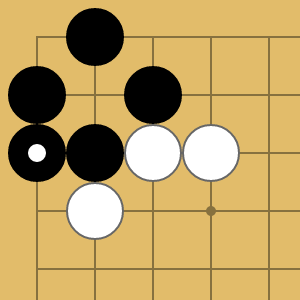
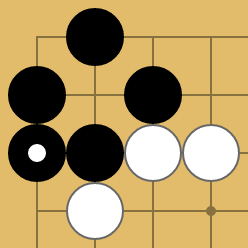
Simplify textured stone styling.
This is mainly driven by performance issues. Mobile devices seem to
struggle a lot with blurring, and for a large number of stones things
get really bad. So the box shadow is cut down. Colours are tweaked, too.

diff --git a/build/tenuki.min.css b/build/tenuki.min.css
@@ -3,4 +3,4 @@
  * Copyright © 2016 Adam Prescott.
  * Licensed under the MIT license.
  */
-.tenuki-dom-renderer.tenuki-board{position:relative;-webkit-user-select:none;user-select:none;-webkit-tap-highlight-color:transparent}.tenuki-dom-renderer.tenuki-board .tenuki-inner-container{background:#e2bc6a;overflow:hidden}.tenuki-dom-renderer.tenuki-board .tenuki-zoom-container{transition:transform .2s ease-in-out;transform:scale(1)}.tenuki-dom-renderer.tenuki-board[data-include-coordinates=true] .cancel-zoom.visible,.tenuki-dom-renderer.tenuki-board[data-include-coordinates=true] .cancel-zoom.visible+.cancel-zoom-backdrop{margin-left:calc(28px - 3px);margin-bottom:calc(28px - 3px)}.tenuki-dom-renderer.tenuki-board .lines{position:absolute;top:0;left:0;margin:calc(28px - 10px)}.tenuki-dom-renderer.tenuki-board[data-include-coordinates=true] .lines{margin:calc((28px - 10px) + (28px - 3px))}.tenuki-dom-renderer.tenuki-board .line{background:#87713f;float:left;position:relative}.tenuki-dom-renderer.tenuki-board .line.horizontal{height:1px;width:100%;margin-bottom:28px;clear:left}.tenuki-dom-renderer.tenuki-board .line.vertical{width:1px;height:100%;margin-right:28px}.tenuki-dom-renderer.tenuki-board .line.vertical:last-child{margin-right:-1px}.tenuki-dom-renderer.tenuki-board[data-include-coordinates=true] .line.horizontal:after,.tenuki-dom-renderer.tenuki-board[data-include-coordinates=true] .line.horizontal:before,.tenuki-dom-renderer.tenuki-board[data-include-coordinates=true] .line.vertical:after,.tenuki-dom-renderer.tenuki-board[data-include-coordinates=true] .line.vertical:before{width:calc((28px - 3px) - 5px);height:calc((28px - 3px) - 5px);text-align:center;line-height:calc((28px - 3px) - 5px);font-family:sans-serif;color:#87713f;display:block;font-size:14px}.tenuki-dom-renderer.tenuki-board[data-include-coordinates=true] .line.vertical:after,.tenuki-dom-renderer.tenuki-board[data-include-coordinates=true] .line.vertical:before{content:attr(data-top-gutter)}.tenuki-dom-renderer.tenuki-board[data-include-coordinates=true] .line.horizontal:after,.tenuki-dom-renderer.tenuki-board[data-include-coordinates=true] .line.horizontal:before{content:attr(data-left-gutter)}.tenuki-dom-renderer.tenuki-board[data-include-coordinates=true] .line.vertical:before{margin-left:calc(-1*((28px - 3px) - 5px)/ 2);margin-top:calc(-1*((28px - 3px) - 5px)/ 2 - 28px)}.tenuki-dom-renderer.tenuki-board[data-include-coordinates=true] .line.vertical:after{position:absolute;bottom:0;left:0;margin-left:calc(-1*((28px - 3px) - 5px)/ 2);margin-bottom:calc(-1*((28px - 3px) - 5px)/ 2 - 28px)}.tenuki-dom-renderer.tenuki-board[data-include-coordinates=true] .line.horizontal:before{margin-left:calc(-1*((28px - 3px) - 5px)/ 2 - 28px);margin-top:calc(-1*((28px - 3px) - 5px)/ 2)}.tenuki-dom-renderer.tenuki-board[data-include-coordinates=true] .line.horizontal:after{position:absolute;top:0;right:0;margin-right:calc(-1*((28px - 3px) - 5px)/ 2 - 28px);margin-top:calc(-1*((28px - 3px) - 5px)/ 2)}.tenuki-dom-renderer.tenuki-board .hoshi{margin-top:calc((28px - 10px) - 2px);margin-left:calc((28px - 10px) - 2px);width:calc(2 * 2px + 1px);height:calc(2 * 2px + 1px);border-radius:50%;background:#87713f;position:absolute}.tenuki-dom-renderer.tenuki-board[data-include-coordinates=true] .hoshi{margin-top:calc((28px - 10px) + (28px - 3px) - 2px);margin-left:calc((28px - 10px) + (28px - 3px) - 2px)}.tenuki-dom-renderer.tenuki-board .intersections{position:absolute;top:calc((28px - 10px) - 28px/2);left:calc((28px - 10px) - 28px/2)}.tenuki-dom-renderer.tenuki-board[data-include-coordinates=true] .intersections{margin-top:calc(28px - 3px);margin-left:calc(28px - 3px)}.tenuki-dom-renderer.tenuki-board .intersection{width:calc(28px + 1px);height:calc(28px + 1px)}.tenuki-dom-renderer.tenuki-board-textured,.tenuki-dom-renderer.tenuki-board-textured .intersections,.tenuki-dom-renderer.tenuki-board-textured .tenuki-inner-container,.tenuki-dom-renderer.tenuki-board-textured .tenuki-zoom-container{transform:scale(1) translate3d(0,0,0)}.tenuki-dom-renderer.tenuki-board-textured.tenuki-smaller-stones .intersection{width:calc(28px + 1px - 2px);height:calc(28px + 1px - 2px);border:1px solid transparent}.tenuki-dom-renderer.tenuki-board-textured.tenuki-fuzzy-placement .occupied{transition:.1s margin}.tenuki-dom-renderer.tenuki-board-textured.tenuki-fuzzy-placement .intersection.played{transition:none}.tenuki-dom-renderer.tenuki-board-textured.tenuki-fuzzy-placement .intersection.v-shift-up{margin-top:-1px}.tenuki-dom-renderer.tenuki-board-textured.tenuki-fuzzy-placement .intersection.v-shift-upup{margin-top:-2px}.tenuki-dom-renderer.tenuki-board-textured.tenuki-fuzzy-placement .intersection.v-shift-down{margin-top:1px}.tenuki-dom-renderer.tenuki-board-textured.tenuki-fuzzy-placement .intersection.v-shift-downdown{margin-top:2px}.tenuki-dom-renderer.tenuki-board-textured.tenuki-fuzzy-placement .intersection.h-shift-left{margin-left:-1px}.tenuki-dom-renderer.tenuki-board-textured.tenuki-fuzzy-placement .intersection.h-shift-leftleft{margin-left:-2px}.tenuki-dom-renderer.tenuki-board-textured.tenuki-fuzzy-placement .intersection.h-shift-right{margin-left:1px}.tenuki-dom-renderer.tenuki-board-textured.tenuki-fuzzy-placement .intersection.h-shift-rightright{margin-left:2px}.tenuki-dom-renderer.tenuki-board .intersection,.tenuki-dom-renderer.tenuki-board .intersection .stone{position:absolute}.tenuki-dom-renderer.tenuki-board .empty.hovered .stone,.tenuki-dom-renderer.tenuki-board .occupied .stone{content:"";display:block;border-radius:50%;border:1px solid #000;width:calc(100% - 2px);height:calc(100% - 2px)}.tenuki-dom-renderer.tenuki-board .intersection.occupied.played .stone:after{content:"";display:block;width:calc(5px);height:calc(5px);border-radius:50%;border:2px solid;position:absolute;left:calc((100% + 2px + 1px)/ 2);top:calc((100% + 2px + 1px)/ 2);margin-left:calc(-1px - 5px);margin-top:calc(-1px - 5px)}.tenuki-dom-renderer.tenuki-board .intersection.white.occupied.played .stone:after{color:#000;background:#000}.tenuki-dom-renderer.tenuki-board .intersection.black.occupied.played .stone:after{color:#fff;background:#fff}.tenuki-dom-renderer.tenuki-board .empty.hovered.white .stone,.tenuki-dom-renderer.tenuki-board .occupied.white .stone{background:#fff;border-color:#676767}.tenuki-dom-renderer.tenuki-board .empty.hovered.white .stone{border-color:#000}.tenuki-dom-renderer.tenuki-board .empty.hovered.black .stone,.tenuki-dom-renderer.tenuki-board .occupied.black .stone{background:#000}.tenuki-dom-renderer.tenuki-board .intersection.empty.hovered .stone{opacity:.5}.tenuki-dom-renderer.tenuki-board .intersection.ko .stone{background:0 0!important;width:11px!important;height:11px!important;border:1px solid #000!important;border-radius:0!important;left:50%!important;top:50%!important;opacity:1!important;position:absolute;margin-top:calc(-1px - 6px);margin-left:calc(-1px - 6px)}.tenuki-dom-renderer.tenuki-board .intersection.occupied.black.dead .stone,.tenuki-dom-renderer.tenuki-board .intersection.occupied.black.white .stone{border-color:rgba(0,0,0,.5)}.tenuki-dom-renderer.tenuki-board .intersection.occupied.black.dead .stone{background:rgba(0,0,0,.5)}.tenuki-dom-renderer.tenuki-board .intersection.occupied.white.dead .stone{background:rgba(255,255,255,.5)}.tenuki-dom-renderer.tenuki-board .intersection.territory-black:after,.tenuki-dom-renderer.tenuki-board .intersection.territory-white:after{content:"";display:block;width:calc(25% + 4px);height:calc(25% + 4px);position:absolute;left:50%;top:50%;margin-left:calc((-25% - 4px)/ 2);margin-top:calc((-25% - 4px)/ 2)}.tenuki-dom-renderer.tenuki-board .intersection.territory-black:after{background:#000}.tenuki-dom-renderer.tenuki-board .intersection.territory-white:after{background:#fff}.tenuki-dom-renderer.tenuki-board-textured .occupied .stone{box-shadow:0 2px 1px rgba(62,62,62,.38)}.tenuki-dom-renderer.tenuki-board-textured .empty.hovered.black .stone,.tenuki-dom-renderer.tenuki-board-textured .occupied.black .stone{border-color:#565656;background:radial-gradient(circle at 50% 120%,#000,#484848 10%,#101010 80%,#585858 100%)}.tenuki-dom-renderer.tenuki-board-textured .empty.hovered.white .stone,.tenuki-dom-renderer.tenuki-board-textured .occupied.white .stone{border-color:#DEDEDE;background:radial-gradient(circle at 50% 120%,#ECEAEA,#D6D6D6 10%,#EAEAEA 80%,#FFF 100%)}.tenuki-dom-renderer.tenuki-board-textured .occupied .stone:before{content:"";position:absolute;top:1%;left:5%;width:90%;height:90%;border-radius:50%;background:radial-gradient(circle at 50% 0,#848484,rgba(86,86,86,0) 58%);z-index:2}.tenuki-dom-renderer.tenuki-board-textured .occupied.white .stone:before{background:radial-gradient(circle at 50% 0,#FFF,rgba(255,255,255,0) 58%)}.tenuki-board.tenuki-scaled .cancel-zoom.visible{background:#B95858;height:70px;width:20px;position:absolute;transform:rotateZ(45deg);bottom:62px;z-index:2;left:89px}.tenuki-board.tenuki-scaled .cancel-zoom.visible:after{background:#B95858;content:"";height:20px;left:-25px;position:absolute;top:25px;width:70px}.tenuki-board.tenuki-scaled .cancel-zoom.visible+.cancel-zoom-backdrop{position:absolute;z-index:1;bottom:48px;background:rgba(226,188,106,.81);border-radius:50%;width:100px;height:100px;left:49px}
+.tenuki-dom-renderer.tenuki-board{position:relative;-webkit-user-select:none;user-select:none;-webkit-tap-highlight-color:transparent}.tenuki-dom-renderer.tenuki-board .tenuki-inner-container{background:#e2bc6a;overflow:hidden}.tenuki-dom-renderer.tenuki-board .tenuki-zoom-container{transition:transform .2s ease-in-out;transform:scale(1)}.tenuki-dom-renderer.tenuki-board[data-include-coordinates=true] .cancel-zoom.visible,.tenuki-dom-renderer.tenuki-board[data-include-coordinates=true] .cancel-zoom.visible+.cancel-zoom-backdrop{margin-left:calc(28px - 3px);margin-bottom:calc(28px - 3px)}.tenuki-dom-renderer.tenuki-board .lines{position:absolute;top:0;left:0;margin:calc(28px - 10px)}.tenuki-dom-renderer.tenuki-board[data-include-coordinates=true] .lines{margin:calc((28px - 10px) + (28px - 3px))}.tenuki-dom-renderer.tenuki-board .line{background:#87713f;float:left;position:relative}.tenuki-dom-renderer.tenuki-board .line.horizontal{height:1px;width:100%;margin-bottom:28px;clear:left}.tenuki-dom-renderer.tenuki-board .line.vertical{width:1px;height:100%;margin-right:28px}.tenuki-dom-renderer.tenuki-board .line.vertical:last-child{margin-right:-1px}.tenuki-dom-renderer.tenuki-board[data-include-coordinates=true] .line.horizontal:after,.tenuki-dom-renderer.tenuki-board[data-include-coordinates=true] .line.horizontal:before,.tenuki-dom-renderer.tenuki-board[data-include-coordinates=true] .line.vertical:after,.tenuki-dom-renderer.tenuki-board[data-include-coordinates=true] .line.vertical:before{width:calc((28px - 3px) - 5px);height:calc((28px - 3px) - 5px);text-align:center;line-height:calc((28px - 3px) - 5px);font-family:sans-serif;color:#87713f;display:block;font-size:14px}.tenuki-dom-renderer.tenuki-board[data-include-coordinates=true] .line.vertical:after,.tenuki-dom-renderer.tenuki-board[data-include-coordinates=true] .line.vertical:before{content:attr(data-top-gutter)}.tenuki-dom-renderer.tenuki-board[data-include-coordinates=true] .line.horizontal:after,.tenuki-dom-renderer.tenuki-board[data-include-coordinates=true] .line.horizontal:before{content:attr(data-left-gutter)}.tenuki-dom-renderer.tenuki-board[data-include-coordinates=true] .line.vertical:before{margin-left:calc(-1*((28px - 3px) - 5px)/ 2);margin-top:calc(-1*((28px - 3px) - 5px)/ 2 - 28px)}.tenuki-dom-renderer.tenuki-board[data-include-coordinates=true] .line.vertical:after{position:absolute;bottom:0;left:0;margin-left:calc(-1*((28px - 3px) - 5px)/ 2);margin-bottom:calc(-1*((28px - 3px) - 5px)/ 2 - 28px)}.tenuki-dom-renderer.tenuki-board[data-include-coordinates=true] .line.horizontal:before{margin-left:calc(-1*((28px - 3px) - 5px)/ 2 - 28px);margin-top:calc(-1*((28px - 3px) - 5px)/ 2)}.tenuki-dom-renderer.tenuki-board[data-include-coordinates=true] .line.horizontal:after{position:absolute;top:0;right:0;margin-right:calc(-1*((28px - 3px) - 5px)/ 2 - 28px);margin-top:calc(-1*((28px - 3px) - 5px)/ 2)}.tenuki-dom-renderer.tenuki-board .hoshi{margin-top:calc((28px - 10px) - 2px);margin-left:calc((28px - 10px) - 2px);width:calc(2 * 2px + 1px);height:calc(2 * 2px + 1px);border-radius:50%;background:#87713f;position:absolute}.tenuki-dom-renderer.tenuki-board[data-include-coordinates=true] .hoshi{margin-top:calc((28px - 10px) + (28px - 3px) - 2px);margin-left:calc((28px - 10px) + (28px - 3px) - 2px)}.tenuki-dom-renderer.tenuki-board .intersections{position:absolute;top:calc((28px - 10px) - 28px/2);left:calc((28px - 10px) - 28px/2)}.tenuki-dom-renderer.tenuki-board[data-include-coordinates=true] .intersections{margin-top:calc(28px - 3px);margin-left:calc(28px - 3px)}.tenuki-dom-renderer.tenuki-board .intersection{width:calc(28px + 1px);height:calc(28px + 1px)}.tenuki-dom-renderer.tenuki-board-textured,.tenuki-dom-renderer.tenuki-board-textured .intersections,.tenuki-dom-renderer.tenuki-board-textured .tenuki-inner-container,.tenuki-dom-renderer.tenuki-board-textured .tenuki-zoom-container{transform:scale(1) translate3d(0,0,0)}.tenuki-dom-renderer.tenuki-board-textured.tenuki-smaller-stones .intersection{width:calc(28px + 1px - 2px);height:calc(28px + 1px - 2px);border:1px solid transparent}.tenuki-dom-renderer.tenuki-board-textured.tenuki-fuzzy-placement .occupied{transition:.1s margin}.tenuki-dom-renderer.tenuki-board-textured.tenuki-fuzzy-placement .intersection.played{transition:none}.tenuki-dom-renderer.tenuki-board-textured.tenuki-fuzzy-placement .intersection.v-shift-up{margin-top:-1px}.tenuki-dom-renderer.tenuki-board-textured.tenuki-fuzzy-placement .intersection.v-shift-upup{margin-top:-2px}.tenuki-dom-renderer.tenuki-board-textured.tenuki-fuzzy-placement .intersection.v-shift-down{margin-top:1px}.tenuki-dom-renderer.tenuki-board-textured.tenuki-fuzzy-placement .intersection.v-shift-downdown{margin-top:2px}.tenuki-dom-renderer.tenuki-board-textured.tenuki-fuzzy-placement .intersection.h-shift-left{margin-left:-1px}.tenuki-dom-renderer.tenuki-board-textured.tenuki-fuzzy-placement .intersection.h-shift-leftleft{margin-left:-2px}.tenuki-dom-renderer.tenuki-board-textured.tenuki-fuzzy-placement .intersection.h-shift-right{margin-left:1px}.tenuki-dom-renderer.tenuki-board-textured.tenuki-fuzzy-placement .intersection.h-shift-rightright{margin-left:2px}.tenuki-dom-renderer.tenuki-board .intersection,.tenuki-dom-renderer.tenuki-board .intersection .stone{position:absolute}.tenuki-dom-renderer.tenuki-board .empty.hovered .stone,.tenuki-dom-renderer.tenuki-board .occupied .stone{content:"";display:block;border-radius:50%;border:1px solid #000;width:calc(100% - 2px);height:calc(100% - 2px)}.tenuki-dom-renderer.tenuki-board .intersection.occupied.played .stone:after{content:"";display:block;width:calc(5px);height:calc(5px);border-radius:50%;border:2px solid;position:absolute;left:calc((100% + 2px + 1px)/ 2);top:calc((100% + 2px + 1px)/ 2);margin-left:calc(-1px - 5px);margin-top:calc(-1px - 5px);z-index:2}.tenuki-dom-renderer.tenuki-board .intersection.white.occupied.played .stone:after{color:#000;background:#000}.tenuki-dom-renderer.tenuki-board .intersection.black.occupied.played .stone:after{color:#fff;background:#fff}.tenuki-dom-renderer.tenuki-board .empty.hovered.white .stone,.tenuki-dom-renderer.tenuki-board .occupied.white .stone{background:#fff;border-color:#676767}.tenuki-dom-renderer.tenuki-board .empty.hovered.white .stone{border-color:#000}.tenuki-dom-renderer.tenuki-board .empty.hovered.black .stone,.tenuki-dom-renderer.tenuki-board .occupied.black .stone{background:#000}.tenuki-dom-renderer.tenuki-board .intersection.empty.hovered .stone{opacity:.5}.tenuki-dom-renderer.tenuki-board .intersection.ko .stone{background:0 0!important;width:11px!important;height:11px!important;border:1px solid #000!important;border-radius:0!important;left:50%!important;top:50%!important;opacity:1!important;position:absolute;margin-top:calc(-1px - 6px);margin-left:calc(-1px - 6px)}.tenuki-dom-renderer.tenuki-board .intersection.occupied.black.dead .stone,.tenuki-dom-renderer.tenuki-board .intersection.occupied.black.white .stone{border-color:rgba(0,0,0,.5)}.tenuki-dom-renderer.tenuki-board .intersection.occupied.black.dead .stone{background:rgba(0,0,0,.5)}.tenuki-dom-renderer.tenuki-board .intersection.occupied.white.dead .stone{background:rgba(255,255,255,.5)}.tenuki-dom-renderer.tenuki-board .intersection.territory-black:after,.tenuki-dom-renderer.tenuki-board .intersection.territory-white:after{content:"";display:block;width:calc(25% + 4px);height:calc(25% + 4px);position:absolute;left:50%;top:50%;margin-left:calc((-25% - 4px)/ 2);margin-top:calc((-25% - 4px)/ 2)}.tenuki-dom-renderer.tenuki-board .intersection.territory-black:after{background:#000}.tenuki-dom-renderer.tenuki-board .intersection.territory-white:after{background:#fff}.tenuki-dom-renderer.tenuki-board-textured .occupied .stone{box-shadow:0 1.5px 0 rgba(62,62,62,.38)}.tenuki-dom-renderer.tenuki-board-textured .empty.hovered.black .stone,.tenuki-dom-renderer.tenuki-board-textured .occupied.black .stone{border-color:#333}.tenuki-dom-renderer.tenuki-board-textured .empty.hovered.white .stone,.tenuki-dom-renderer.tenuki-board-textured .occupied.white .stone{border-color:#DEDEDE}.tenuki-dom-renderer.tenuki-board-textured .occupied .stone:before{content:"";position:absolute;top:0;left:0;width:100%;height:100%;border-radius:50%;z-index:2}.tenuki-dom-renderer.tenuki-board-textured .occupied.black .stone:before{background:radial-gradient(circle at 50% 0,#848484,#333 50%)}.tenuki-dom-renderer.tenuki-board-textured .occupied.white .stone:before{background:radial-gradient(circle at 50% 0,#FFF,#DDD 70%)}.tenuki-board.tenuki-scaled .cancel-zoom.visible{background:#B95858;height:70px;width:20px;position:absolute;transform:rotateZ(45deg);bottom:62px;z-index:2;left:89px}.tenuki-board.tenuki-scaled .cancel-zoom.visible:after{background:#B95858;content:"";height:20px;left:-25px;position:absolute;top:25px;width:70px}.tenuki-board.tenuki-scaled .cancel-zoom.visible+.cancel-zoom-backdrop{position:absolute;z-index:1;bottom:48px;background:rgba(226,188,106,.81);border-radius:50%;width:100px;height:100px;left:49px}

diff --git a/build/tenuki.css b/build/tenuki.css
@@ -264,6 +264,7 @@
   /* now correct by the 1px, plus the width of the played marker */
   margin-left: calc(-1px - 5px);
   margin-top: calc(-1px - 5px);
+  z-index: 2;
 }
 
 .tenuki-dom-renderer.tenuki-board .intersection.white.occupied.played .stone:after {
@@ -344,35 +345,36 @@
 }
 
 .tenuki-dom-renderer.tenuki-board-textured .occupied .stone {
-  box-shadow: 0px 2px 1px rgba(62, 62, 62, 0.38);
+  box-shadow: 0px 1.5px 0px rgba(62, 62, 62, 0.38);
 }
 
 .tenuki-dom-renderer.tenuki-board-textured .occupied.black .stone,
 .tenuki-dom-renderer.tenuki-board-textured .empty.hovered.black .stone {
-  border-color: #565656;
-  background: radial-gradient(circle at 50% 120%, #000000, #484848 10%, #101010 80%, #585858 100%)
+  border-color: hsl(0, 0%, 20%);
 }
 
 .tenuki-dom-renderer.tenuki-board-textured .occupied.white .stone,
 .tenuki-dom-renderer.tenuki-board-textured .empty.hovered.white .stone {
   border-color: #DEDEDE;
-  background: radial-gradient(circle at 50% 120%, #ECEAEA, #D6D6D6 10%, #EAEAEA 80%, #FFFFFF 100%);
 }
 
 .tenuki-dom-renderer.tenuki-board-textured .occupied .stone:before {
   content: "";
   position: absolute;
-  top: 1%;
-  left: 5%;
-  width: 90%;
-  height: 90%;
+  top: 0;
+  left: 0;
+  width: 100%;
+  height: 100%;
   border-radius: 50%;
-  background: radial-gradient(circle at 50% 0px, #848484, rgba(86, 86, 86, 0) 58%);
   z-index: 2;
 }
 
+.tenuki-dom-renderer.tenuki-board-textured .occupied.black .stone:before {
+  background: radial-gradient(circle at 50% 0px, #848484, hsl(0, 0%, 20%) 50%);
+}
+
 .tenuki-dom-renderer.tenuki-board-textured .occupied.white .stone:before {
-  background: radial-gradient(circle at 50% 0px, #FFFFFF, rgba(255, 255, 255, 0) 58%);
+  background: radial-gradient(circle at 50% 0px, #FFFFFF, #DDDDDD 70%);
 }
 
 .tenuki-board.tenuki-scaled .cancel-zoom.visible {

diff --git a/css/dom-renderer.css b/css/dom-renderer.css
@@ -259,6 +259,7 @@
   /* now correct by the 1px, plus the width of the played marker */
   margin-left: calc(-1px - 5px);
   margin-top: calc(-1px - 5px);
+  z-index: 2;
 }
 
 .tenuki-dom-renderer.tenuki-board .intersection.white.occupied.played .stone:after {
@@ -339,34 +340,35 @@
 }
 
 .tenuki-dom-renderer.tenuki-board-textured .occupied .stone {
-  box-shadow: 0px 2px 1px rgba(62, 62, 62, 0.38);
+  box-shadow: 0px 1.5px 0px rgba(62, 62, 62, 0.38);
 }
 
 .tenuki-dom-renderer.tenuki-board-textured .occupied.black .stone,
 .tenuki-dom-renderer.tenuki-board-textured .empty.hovered.black .stone {
-  border-color: #565656;
-  background: radial-gradient(circle at 50% 120%, #000000, #484848 10%, #101010 80%, #585858 100%)
+  border-color: hsl(0, 0%, 20%);
 }
 
 .tenuki-dom-renderer.tenuki-board-textured .occupied.white .stone,
 .tenuki-dom-renderer.tenuki-board-textured .empty.hovered.white .stone {
   border-color: #DEDEDE;
-  background: radial-gradient(circle at 50% 120%, #ECEAEA, #D6D6D6 10%, #EAEAEA 80%, #FFFFFF 100%);
 }
 
 .tenuki-dom-renderer.tenuki-board-textured .occupied .stone:before {
   content: "";
   position: absolute;
-  top: 1%;
-  left: 5%;
-  width: 90%;
-  height: 90%;
+  top: 0;
+  left: 0;
+  width: 100%;
+  height: 100%;
   border-radius: 50%;
-  background: radial-gradient(circle at 50% 0px, #848484, rgba(86, 86, 86, 0) 58%);
   z-index: 2;
 }
 
+.tenuki-dom-renderer.tenuki-board-textured .occupied.black .stone:before {
+  background: radial-gradient(circle at 50% 0px, #848484, hsl(0, 0%, 20%) 50%);
+}
+
 .tenuki-dom-renderer.tenuki-board-textured .occupied.white .stone:before {
-  background: radial-gradient(circle at 50% 0px, #FFFFFF, rgba(255, 255, 255, 0) 58%);
+  background: radial-gradient(circle at 50% 0px, #FFFFFF, #DDDDDD 70%);
 }
 

diff --git a/README.md b/README.md
@@ -13,7 +13,7 @@ The JavaScript engine is not dependent on the renderer and works stand-alone. Yo
 
 The HTML go board is intended to be a robust, functional component that can be embedded in a web page. By using the JavaScript API you could then build your own custom controls for undo/pass/etc.
 
-<img src="https://raw.githubusercontent.com/aprescott/tenuki.js/master/examples/screenshots/board.png" width="150" height="150">
+<img src="https://raw.githubusercontent.com/aprescott/tenuki.js/master/examples/screenshots/board.png" width="124" height="124">
 
 Features:
 
@@ -87,7 +87,7 @@ For a textured board, add the class `tenuki-board-textured`:
 <div class="tenuki-board tenuki-board-textured"></div>
 ```
 
-<img src="https://raw.githubusercontent.com/aprescott/tenuki.js/master/examples/screenshots/board-textured.png" width="150" height="150">
+<img src="https://raw.githubusercontent.com/aprescott/tenuki.js/master/examples/screenshots/board-textured.png" width="124" height="124">
 
 # Fuzzy stone placement
 

diff --git a/CHANGELOG.md b/CHANGELOG.md
@@ -2,6 +2,7 @@
 
 * Resizing the window (including rotating) will re-calculate board sizing.
 * When zoomed in with Tenuki's own zoom, pinch-zooming out will zoom the board out.
+* Simplify textured stone styling.
 
 # v0.2.0
 
